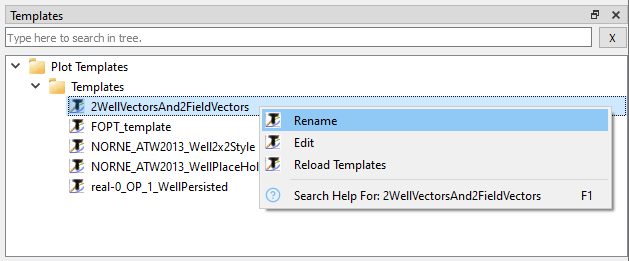
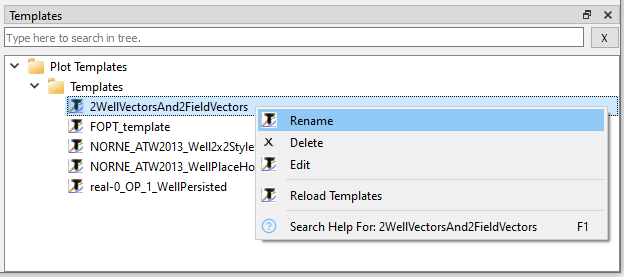
Update Templates Window

Changed region(s): [[0.0, 0.0, 1.0, 1.0]]

diff --git a/content/plot-window/SummaryPlotTemplate.md b/content/plot-window/SummaryPlotTemplate.md
@@ -44,8 +44,9 @@ Summary templates made with prior versions are incompatible with ResInsight 2022
 ## Templates window
 The **Templates** window enables overview of summary plot templates by directory and offers the following functionality:
 
-- rename of template
-- edit of template XML file in the *Script Editor* specified in 
+- rename selected template
+- delete selected template
+- edit selected template XML file in the *Script Editor* specified in 
 [Preferences]({{< relref "preferences#scripting" >}}) 
 - reload templates in ResInsight in case of directory or file changes on disk
 
